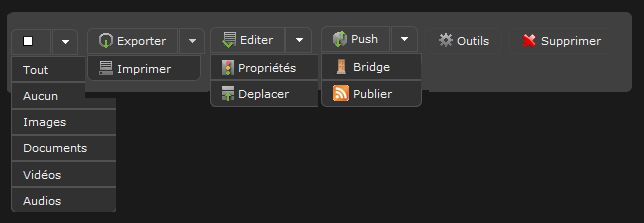
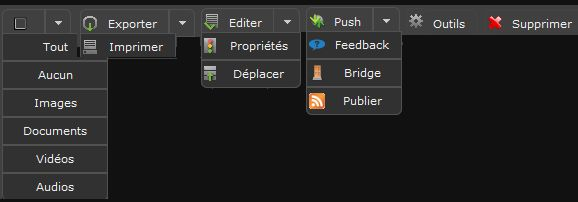
Updating Actions, General and Onglets (partial)

Changed region(s): [[0.0, 0.0, 1.0, 0.9802]]

diff --git a/fr/User/Manuel/General.rst b/fr/User/Manuel/General.rst
@@ -213,10 +213,6 @@ du clavier.
 
 Cliquer sur l’onglet séparant la zone paniers de celle des résultats.
 
-.. figure:: ../../images/General-Prefpaniers3.jpg
-   :alt: alternate text
-   :align: center
-
 Déplacer le curseur vers la gauche ou la droite pour changer la taille des zones 
 d’affichage.
 
@@ -224,6 +220,23 @@ Relâcher le curseur dès que le nombre de vignettes par ligne dans la zone des
 paniers est atteint.
 
 .. note:: Ensuite, l'application ajuste seule l’espace pour optimiser l’affichage.
+
+A noter également: depuis la version 3.6, la Barre des Onglets est rétractable: 
+
+  .. image:: ../../images/Onglets-Retractable0.jpg
+	   :alt: alternate text
+	   :align: center
+
+Un clic sur l'icône présente sur le côté droit permet de la masquer quasi - 
+entièrement, ce qui laisse un espace totalement dédié à l'affichage et à la 
+consultation des Résultats :
+
+  .. image:: ../../images/Onglets-Retractable.jpg
+	   :alt: alternate text
+	   :align: center
+
+Un clic sur n'importe quelle partie de la Barre des Onglets la fait réapparaître 
+instantanément.
 
 Interface Classic
 -----------------

diff --git a/fr/User/Manuel/Actions.rst b/fr/User/Manuel/Actions.rst
@@ -35,8 +35,6 @@ la partie haute de la fenêtre, au-dessus de l'affichage des résultats.
 Jusqu'à la version 3.5, celle-ci se présentait ainsi:
 
     .. image:: ../../images/Palette.jpg
-	     :height: 50 px
-	     :width: 550 px
 	     :alt: alternate text
 	     :align: center 
 
@@ -47,8 +45,6 @@ une flèche sur laquelle l'utilisateur doit cliquer pour dérouler l'ensemble de
 actions disponibles.
 
     .. image:: ../../images/Actions-PaletteBeta.jpg
-	     :height: 200 px
-	     :width: 540 px
 	     :alt: alternate text
 	     :align: center 
 	
@@ -106,7 +102,9 @@ Il est possible d'éditer les :term:`documents <Document>` à l'unité ou en lot
 Push
 *****
 On utilise le :term:`"push" <Push>` dans Phraseanet pour envoyer virtuellement des 
-documents à un ou plusieurs destinataires.
+documents à un ou plusieurs destinataires. Depuis la version 3.6, Push et Feedback 
+sont deux modules distincts. Vous retrouvez donc le *Feedback* également dans le 
+sous menu du bouton Push (également présents: *Bridge* et *Publier*).
 
 :doc:`Veuillez vous reporter à la section dédiée au Push <Push>`.
 

diff --git a/fr/User/Manuel/Onglets.rst b/fr/User/Manuel/Onglets.rst
@@ -125,23 +125,3 @@ les bases ouvertes.
 	  .. image:: ../../images/Rechercher-thesaurus3.jpg
 	   :alt: alternate text
 	   :align: center
-
-Note
-----
-
-Depuis la version 3.6, la Barre des Onglets est rétractable: 
-
-  .. image:: ../../images/Onglets-Retractable0.jpg
-	   :alt: alternate text
-	   :align: center
-
-Un clic sur l'icône présente sur le côté droit permet de la masquer quasi - 
-entièrement, ce qui laisse un espace totalement dédié à l'affichage et à la 
-consultation des Résultats :
-
-  .. image:: ../../images/Onglets-Retractable.jpg
-	   :alt: alternate text
-	   :align: center
-
-Un clic sur n'importe quelle partie de la Barre des Onglets la fait réapparaître 
-instantanément.
